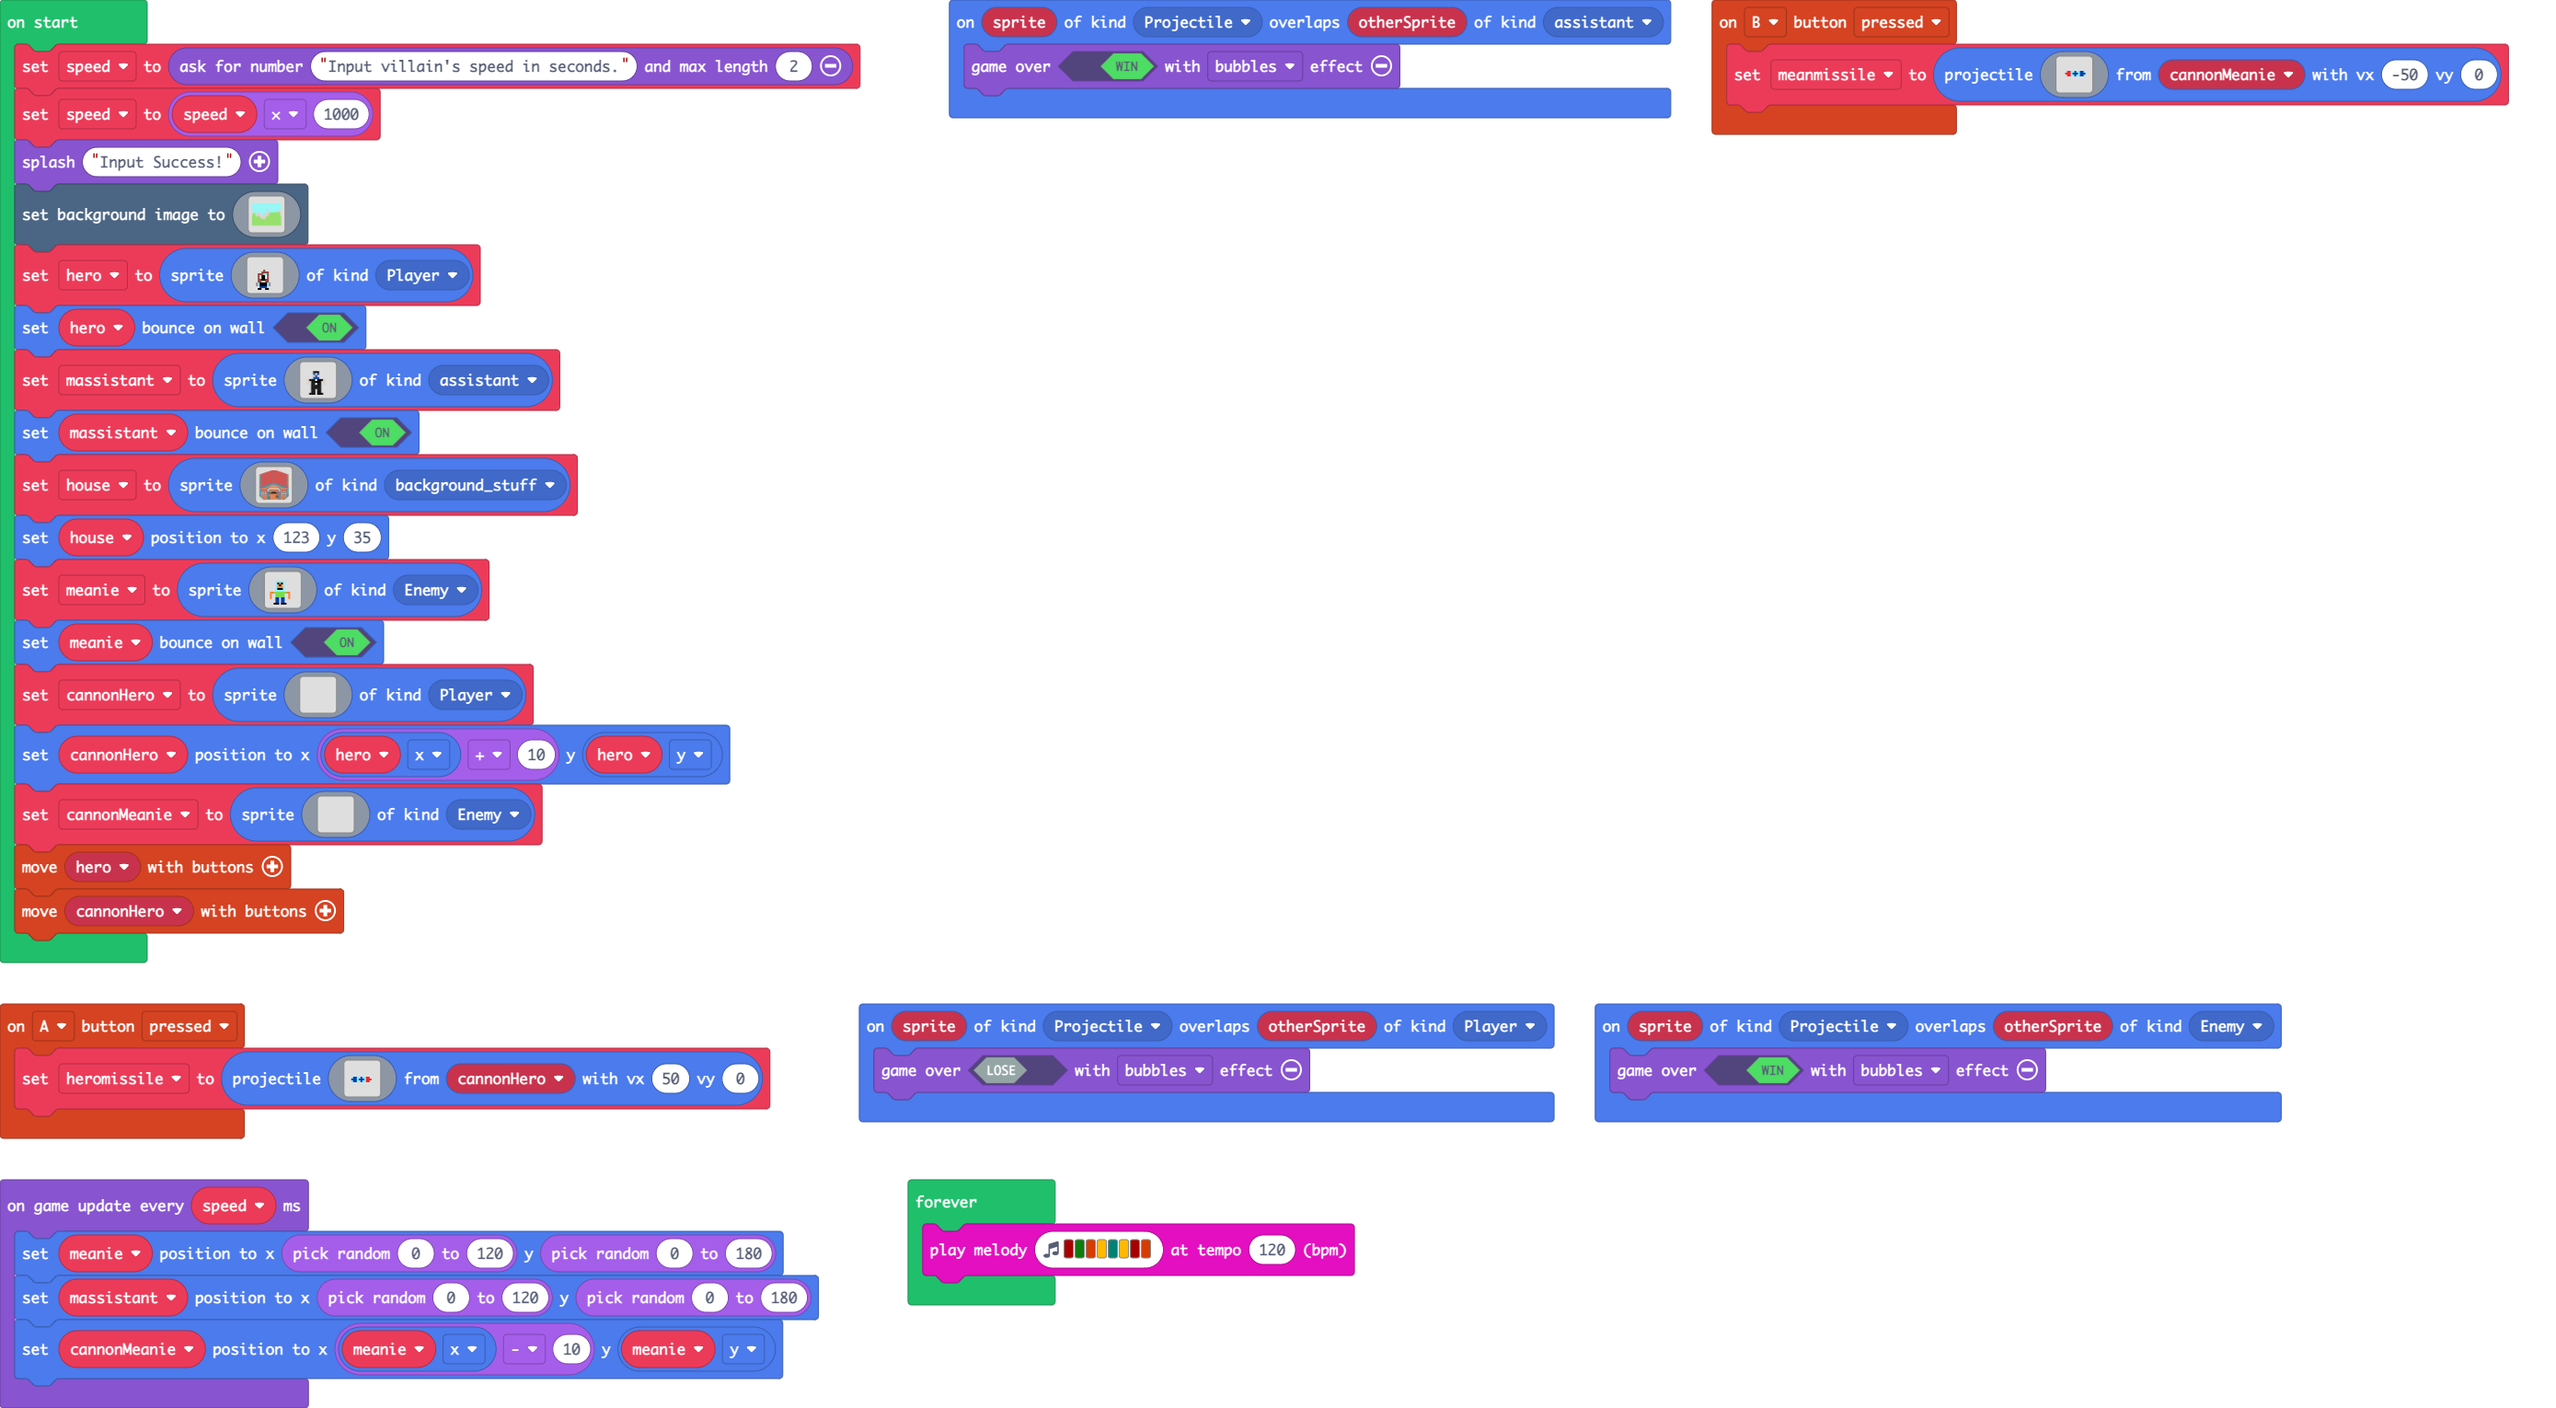
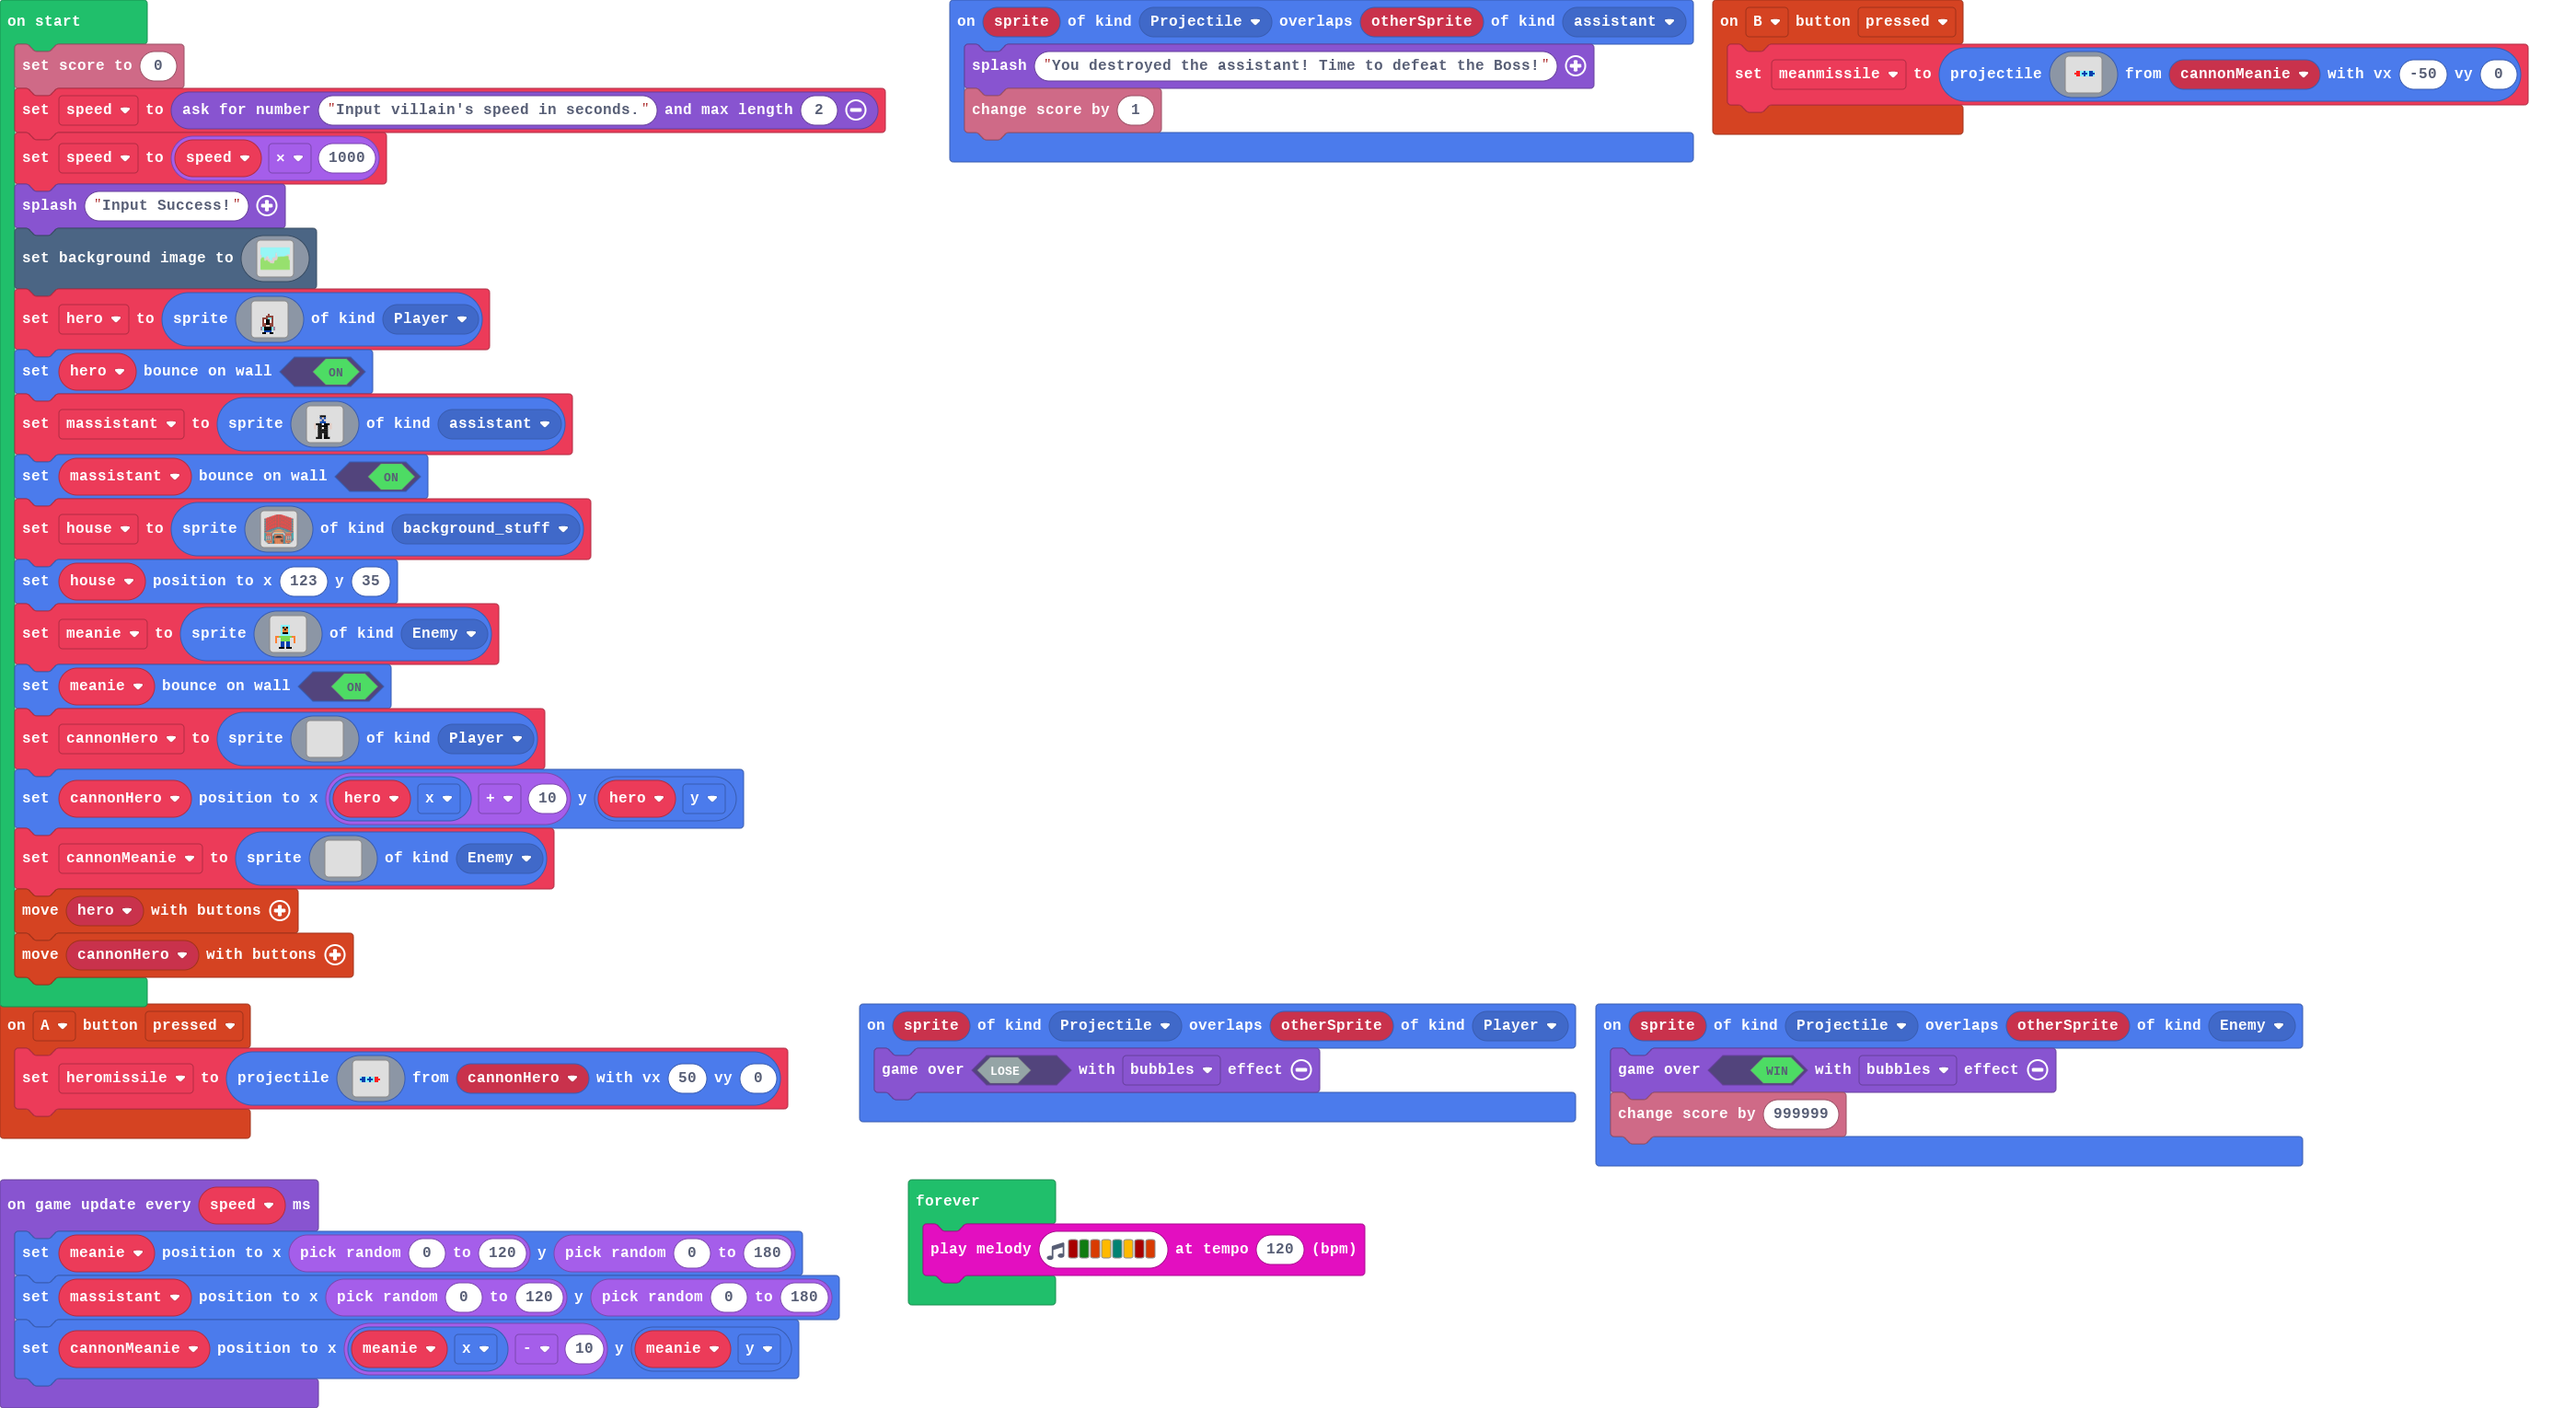
Update pxt.json, main.blocks, main.ts

Changed region(s): [[0.0, 0.0, 0.9597, 0.8294], [0.0, 0.8294, 0.5263, 1.0]]

diff --git a/main.ts b/main.ts
@@ -3,7 +3,8 @@ namespace SpriteKind {
     export const background_stuff = SpriteKind.create()
 }
 sprites.onOverlap(SpriteKind.Projectile, SpriteKind.assistant, function (sprite, otherSprite) {
-    game.over(true, effects.bubbles)
+    game.splash("You destroyed the assistant! Time to defeat the Boss!")
+    info.changeScoreBy(1)
 })
 controller.B.onEvent(ControllerButtonEvent.Pressed, function () {
     meanmissile = sprites.createProjectileFromSprite(assets.image`meanieMissile`, cannonMeanie, -50, 0)
@@ -16,11 +17,13 @@ sprites.onOverlap(SpriteKind.Projectile, SpriteKind.Player, function (sprite, ot
 })
 sprites.onOverlap(SpriteKind.Projectile, SpriteKind.Enemy, function (sprite, otherSprite) {
     game.over(true, effects.bubbles)
+    info.changeScoreBy(999999)
 })
 let heromissile: Sprite = null
 let meanmissile: Sprite = null
 let cannonMeanie: Sprite = null
 let cannonHero: Sprite = null
+info.setScore(0)
 let speed = game.askForNumber("Input villain's speed in seconds.", 2)
 speed = speed * 1000
 game.splash("Input Success!")
